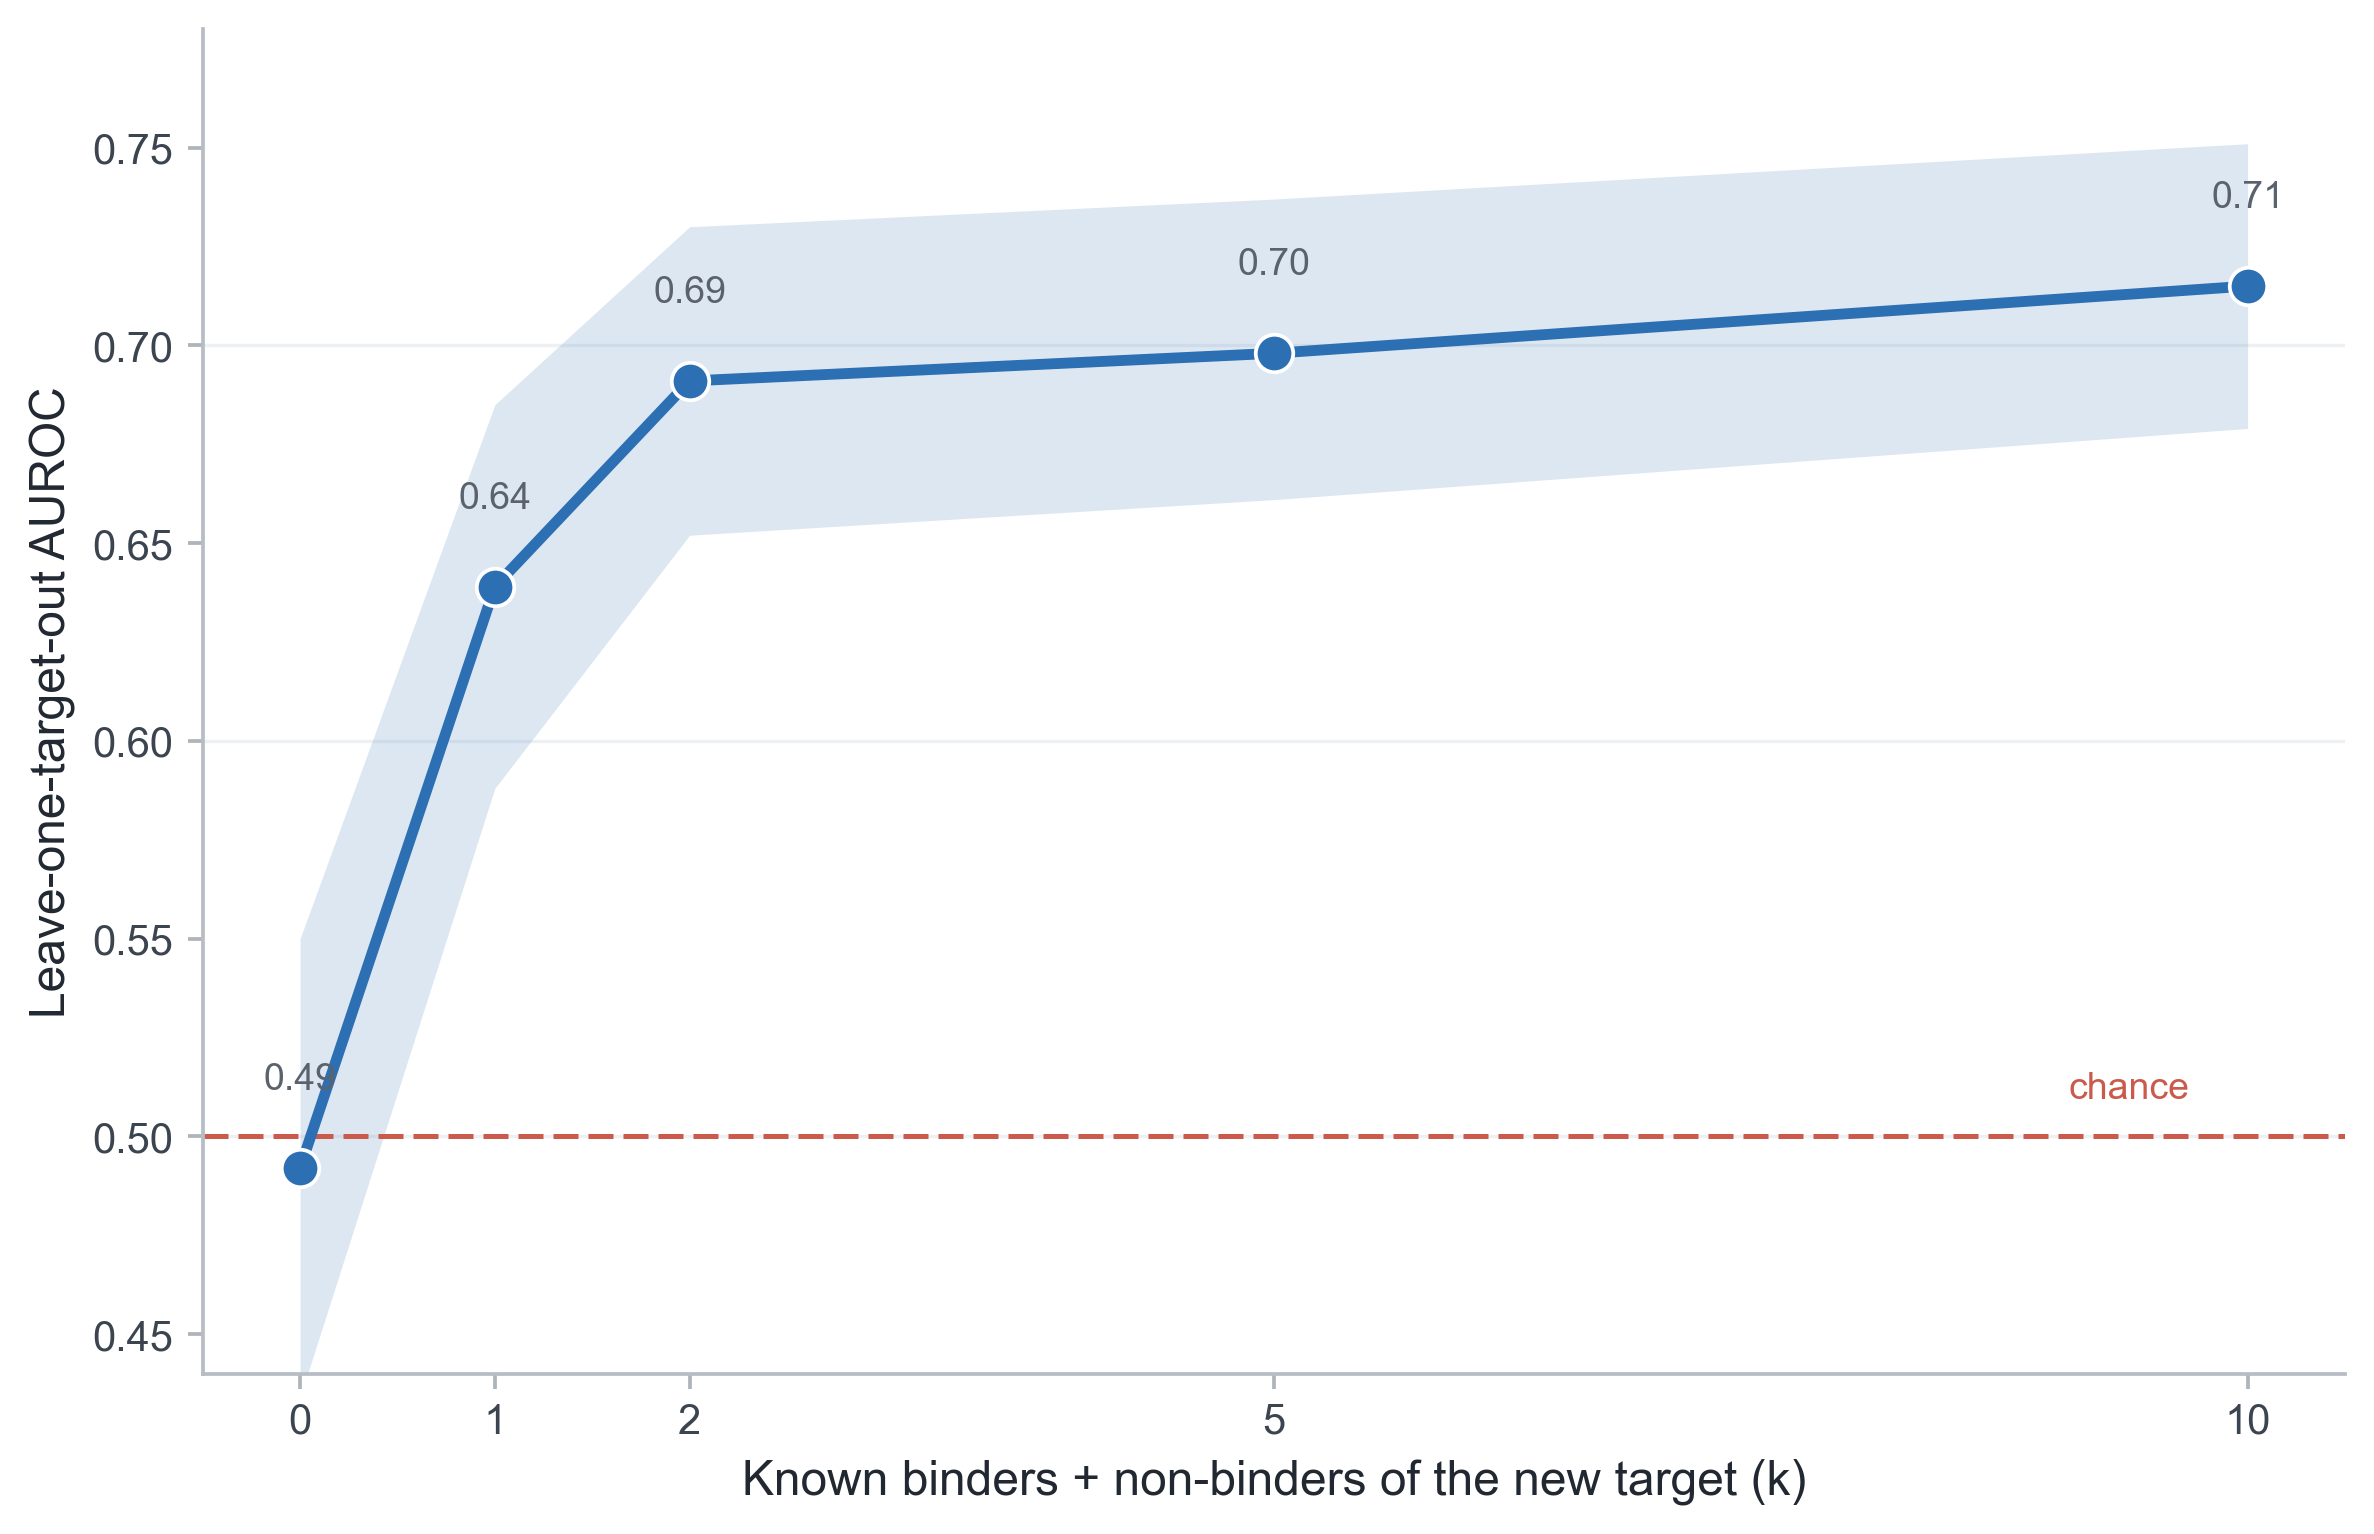
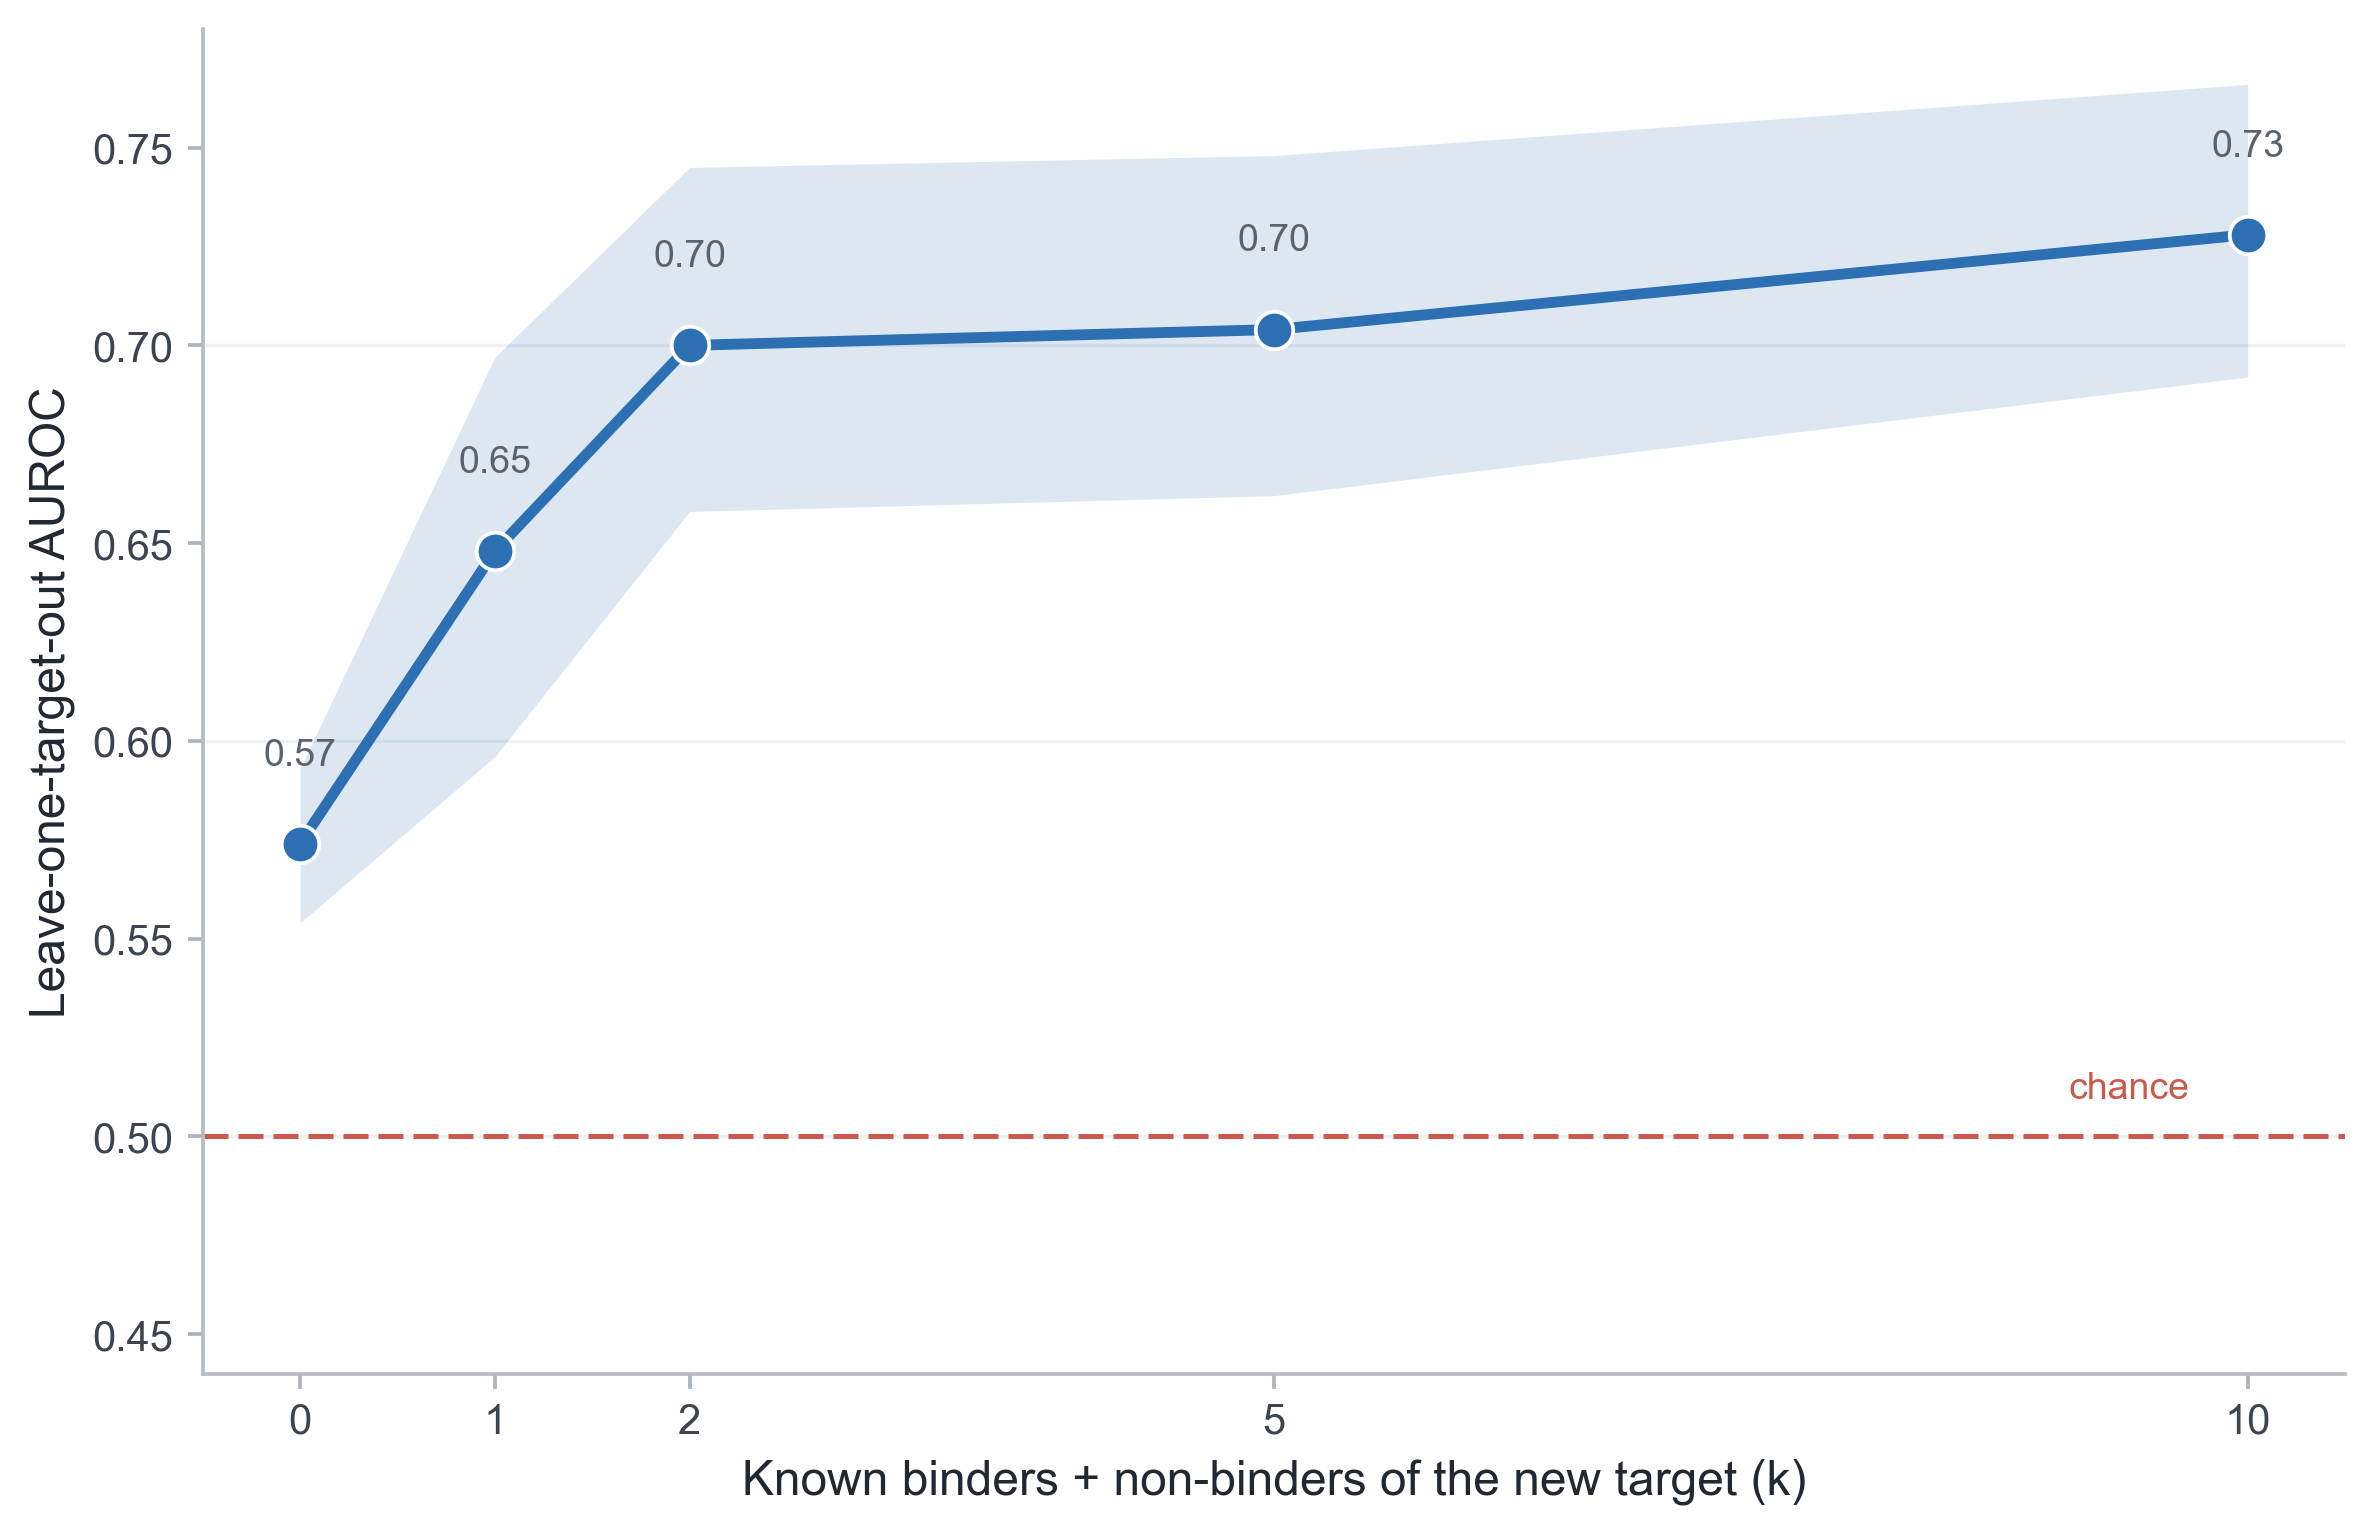
Updated

diff --git a/src/r11_fewshot_final.py b/src/r11_fewshot_final.py
@@ -1,0 +1,75 @@
+#!/usr/bin/env python3
+"""R11 - few-shot recovery, FINAL canonical run: AUROC AND AUPRC with bootstrap CIs
+from a SINGLE deterministic run (fixes the spliced-run inconsistency flagged in review).
+CPU, deterministic. Writes outputs/r11_fewshot_final.csv."""
+import os, warnings, numpy as np, pandas as pd
+import lightgbm as lgb
+from sklearn.metrics import roc_auc_score, average_precision_score
+warnings.filterwarnings("ignore")
+ROOT = os.path.dirname(os.path.dirname(os.path.abspath(__file__)))
+LGB = dict(objective="binary", n_estimators=300, learning_rate=0.05, num_leaves=31, subsample=0.9,
+           colsample_bytree=0.8, min_child_samples=10, reg_lambda=1.0, is_unbalance=True,
+           verbosity=-1, n_jobs=1, num_threads=1, deterministic=True, force_row_wise=True,
+           random_state=42, bagging_seed=42, feature_fraction_seed=42)
+fm = pd.read_parquet(os.path.join(ROOT, "features/feature_matrix.parquet"))
+base_cols = list(pd.read_csv(os.path.join(ROOT, "features/feature_columns.csv"))["column"])
+emb = np.load(os.path.join(ROOT, "features/esm2_embeddings.npy"))
+pids = np.load(os.path.join(ROOT, "features/esm2_protein_ids.npy"), allow_pickle=True)
+p2r = {str(p): i for i, p in enumerate(pids)}
+E = np.stack([emb[p2r[str(p)]] for p in fm["protein_id"]]).astype(np.float32)
+y = fm["binding_label"].values.astype(int); tgt = fm["target"].values
+Xb = fm[base_cols].values.astype(np.float32); eps = 1e-8
+
+def proto_feats(E, tgt, y, trm):
+    out = np.zeros((len(E), 7), np.float32)
+    for t in np.unique(tgt):
+        m = tgt == t; pos = E[m & trm & (y == 1)]; neg = E[m & trm & (y == 0)]
+        pp = pos.mean(0) if len(pos) else np.zeros(E.shape[1]); pn = neg.mean(0) if len(neg) else np.zeros(E.shape[1])
+        diff = pp - pn; dn = np.linalg.norm(diff) + eps; ei = E[m]
+        cp = (ei @ pp) / ((np.linalg.norm(ei, axis=1) * np.linalg.norm(pp)) + eps)
+        cn = (ei @ pn) / ((np.linalg.norm(ei, axis=1) * np.linalg.norm(pn)) + eps)
+        out[m] = np.stack([cp, cn, np.linalg.norm(ei - pp, axis=1), (ei @ diff) / dn,
+                           cp / (cn + eps), np.full(m.sum(), len(pos)), np.full(m.sum(), len(neg))], 1)
+    return out
+
+def _n(v): return float(np.sqrt(np.sum(np.asarray(v, float) ** 2)))
+def prow(ei, pp, pn, a, b):
+    ei = np.asarray(ei, float).ravel(); pp = np.asarray(pp, float).ravel(); pn = np.asarray(pn, float).ravel()
+    nei = _n(ei)
+    cp = float(ei @ pp) / ((nei * _n(pp)) + eps)
+    cn = float(ei @ pn) / ((nei * _n(pn)) + eps); d = pp - pn
+    return [cp, cn, _n(ei - pp), float(ei @ d) / (_n(d) + eps), cp / (cn + eps), a, b]
+
+cand = [t for t in np.unique(tgt) if ((tgt == t) & (y == 1)).sum() >= 15 and ((tgt == t) & (y == 0)).sum() >= 15]
+KS = [0, 1, 2, 5, 10]; cellA = {k: [] for k in KS}; cellP = {k: [] for k in KS}
+for held in cand:
+    hm = tgt == held; trm = ~hm
+    Ptr = proto_feats(E, tgt, y, trm)
+    m = lgb.LGBMClassifier(**LGB); m.fit(np.hstack([Xb, Ptr])[trm], y[trm])
+    pidx = np.where(hm & (y == 1))[0]; nidx = np.where(hm & (y == 0))[0]
+    for k in KS:
+        for r in range(10):
+            rs = np.random.RandomState(r)
+            if k == 0: pp = np.zeros(1280); pn = np.zeros(1280); shots = set()
+            else:
+                sp = rs.choice(pidx, min(k, len(pidx)), False); sn = rs.choice(nidx, min(k, len(nidx)), False)
+                shots = set(sp) | set(sn); pp = E[sp].mean(0); pn = E[sn].mean(0)
+            ev = np.array([i for i in np.where(hm)[0] if i not in shots])
+            if len(np.unique(y[ev])) < 2: continue
+            Pe = np.array([prow(E[i], pp, pn, k, k) for i in ev]); pr = m.predict_proba(np.hstack([Xb[ev], Pe]))[:, 1]
+            cellA[k].append(roc_auc_score(y[ev], pr)); cellP[k].append(average_precision_score(y[ev], pr))
+
+def ci(v):
+    v = np.array(v); boot = [np.mean(np.random.RandomState(s).choice(v, len(v), True)) for s in range(2000)]
+    return float(np.mean(v)), float(np.percentile(boot, 2.5)), float(np.percentile(boot, 97.5))
+
+rows = []
+print(f"few-shot targets (n={len(cand)}): {cand}")
+print(f"  {'k':>3} {'AUROC [95% CI]':>22} {'AUPRC [95% CI]':>22}")
+for k in KS:
+    am, alo, ahi = ci(cellA[k]); pm, plo, phi = ci(cellP[k])
+    print(f"  {k:3d}  {am:.3f} [{alo:.3f}, {ahi:.3f}]   {pm:.3f} [{plo:.3f}, {phi:.3f}]")
+    rows.append({"k": k, "auroc": round(am, 3), "auroc_ci_lo": round(alo, 3), "auroc_ci_hi": round(ahi, 3),
+                 "auprc": round(pm, 3), "auprc_ci_lo": round(plo, 3), "auprc_ci_hi": round(phi, 3)})
+pd.DataFrame(rows).to_csv(os.path.join(ROOT, "outputs/r11_fewshot_final.csv"), index=False)
+print("\nsaved outputs/r11_fewshot_final.csv")

diff --git a/src/r7_figures_final.py b/src/r7_figures_final.py
@@ -172,10 +172,10 @@ def fig5():
 
 # ── Figure 6 — few-shot ──────────────────────────────────────────────────────
 def fig6():
-    d=pd.read_csv(OUT/"r8b_fewshot_ci.csv")
+    d=pd.read_csv(OUT/"r11_fewshot_final.csv")
     fig,ax=plt.subplots(figsize=(7.8,5.0),layout="constrained")
     for yv in (0.5,0.6,0.7): ax.axhline(yv,color="#EEF1F4",lw=0.8,zorder=0)
-    ax.fill_between(d.k,d.ci_lo,d.ci_hi,alpha=0.16,color=C["blue"],lw=0,zorder=1)
+    ax.fill_between(d.k,d.auroc_ci_lo,d.auroc_ci_hi,alpha=0.16,color=C["blue"],lw=0,zorder=1)
     ax.plot(d.k,d.auroc,"-",color=C["blue"],lw=2.6,zorder=2)
     ax.plot(d.k,d.auroc,"o",color=C["blue"],ms=9,zorder=3,markeredgecolor="white",markeredgewidth=0.9)
     for _,r in d.iterrows(): ax.text(r.k,r.auroc+0.020,f"{r.auroc:.2f}",ha="center",fontsize=9,color="#5A626D")

diff --git a/README.md b/README.md
@@ -26,7 +26,7 @@ The contribution is an honest, quantified **applicability domain** rather than a
 
 - **470 features** (463 base + 7 prototype-similarity). `proto_ratio` is the top SHAP feature.
 - **Practical utility:** top-10% ranking enriches binders **4.7×** over the 17.1% test-set binding rate (top-5% reaches 90% precision, 5.3×).
-- **Few-shot:** adding ~2 known binders of a new target recovers AUROC from chance to **~0.70**.
+- **Few-shot:** adding ~2 known binders of a new target recovers AUROC from near chance to **~0.70**.
 - **Validated:** label-shuffle control, sequence- and batch-level leakage audits, nearest-neighbour and single-feature baselines, external (Overath 2025) and natural-PPI (SKEMPI 2.0) checks, and independent structural validation (Boltz-2 ipTM, MM-GBSA).
 - The model is a **binder/non-binder classifier** and does not rank affinity.
 
